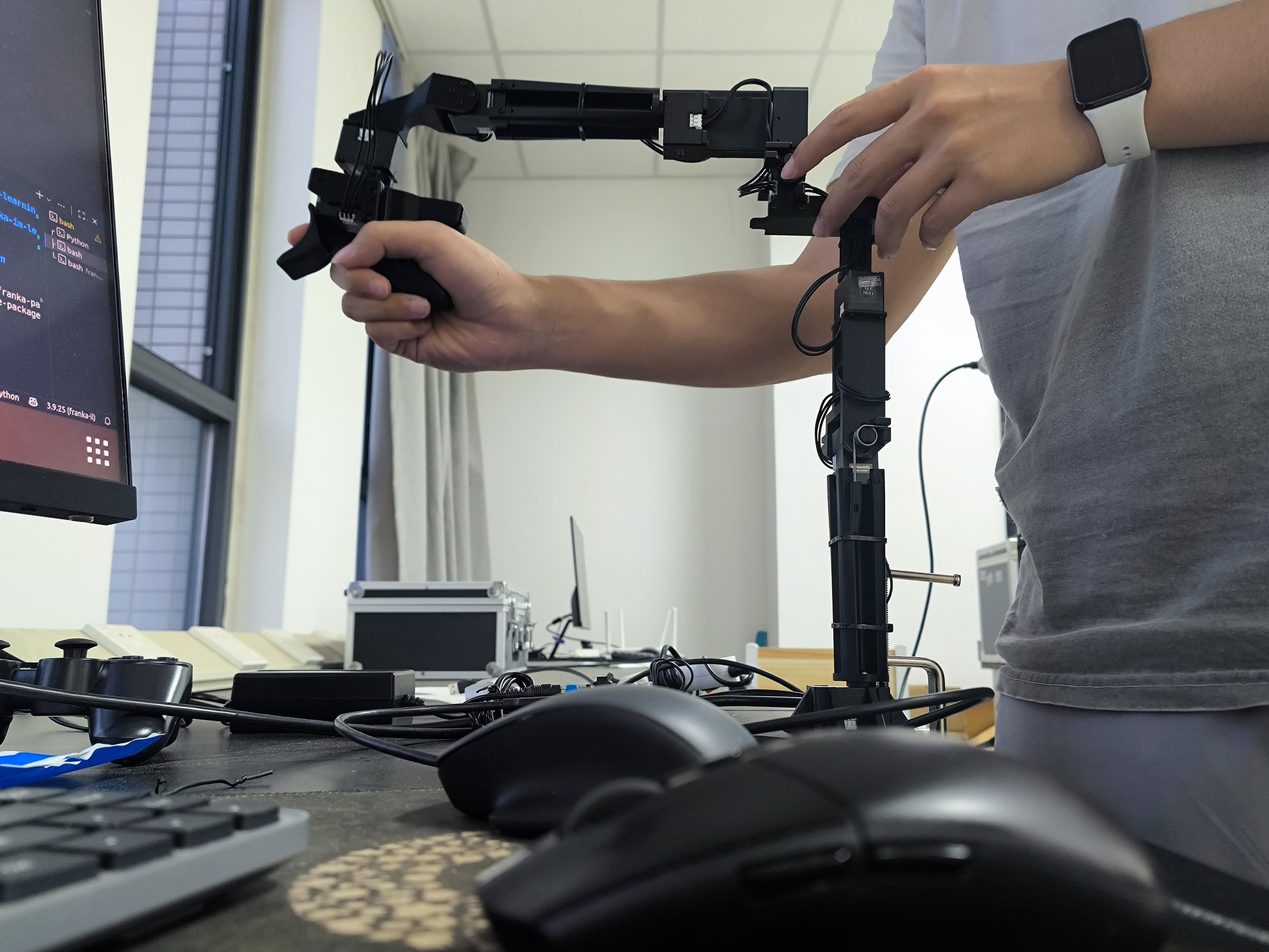
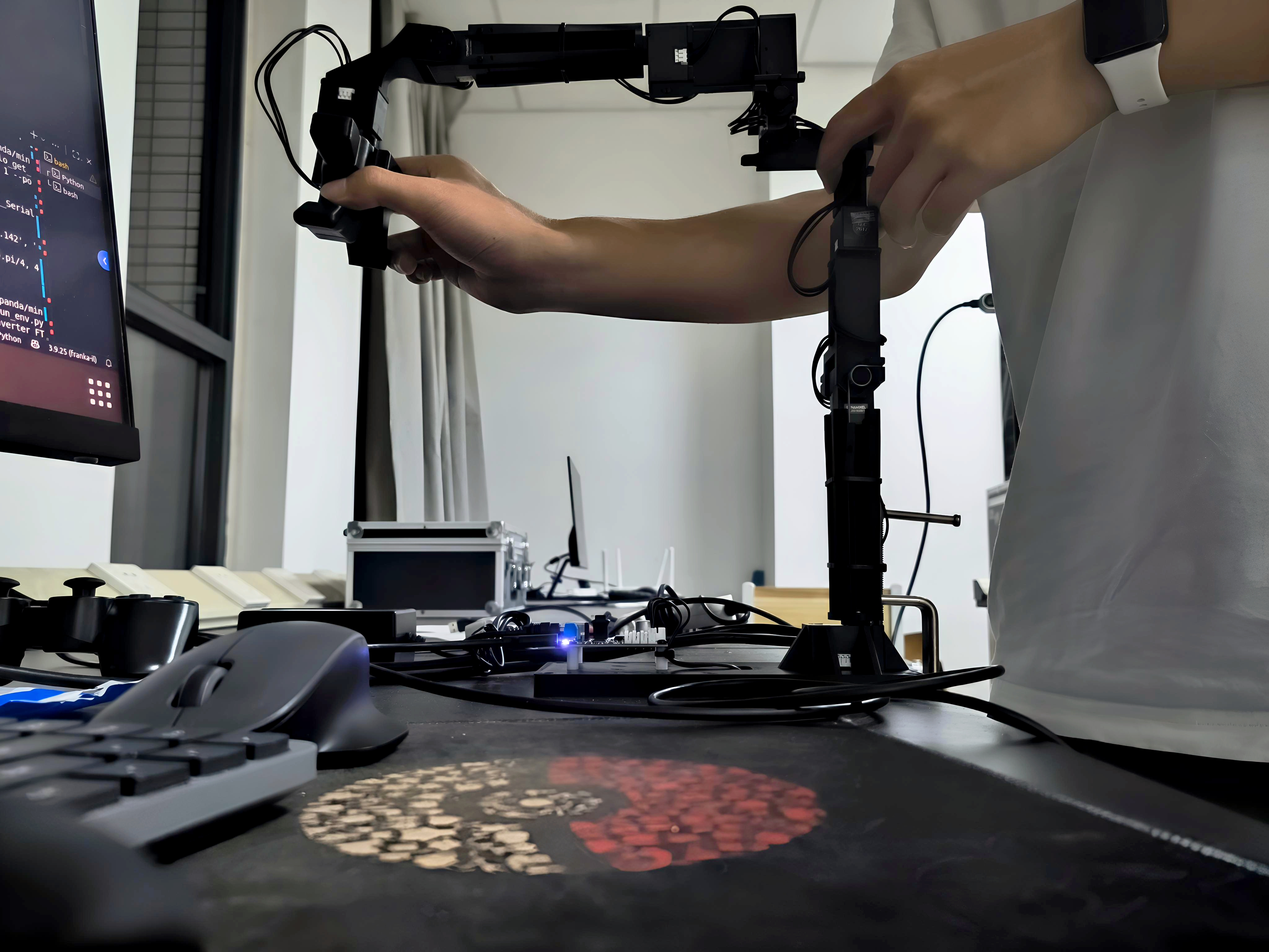
20260621修改

diff --git a/projects.html b/projects.html
@@ -34,35 +34,37 @@
             <h2 id="featured-projects">精选项目</h2>
           </div>
           <div class="item-list">
-            <a class="item item-link" href="https://www.bilibili.com/video/BV1cZVu6aExs/?spm_id_from=333.1387.homepage.video_card.click&vd_source=9805319fbcc667bd39b66994068b0d17" target="_blank" rel="noreferrer">
+
+            <article class="item project-card">
               <h3 class="title-line">
                 <span class="title-main">第十九届“挑战杯”全国大学生课外学术科技作品竞赛2025年度中国青年科技创新“揭榜挂帅”擂台赛 · <span class="title-meta">全国特等奖 · 第一负责人</span></span>
                 <span class="title-date">2025.07 - 2025.10</span>
               </h3>
+              <div class="item-actions" aria-label="项目相关链接">
+                <a class="item-action-link" href="https://www.bilibili.com/video/BV1cZVu6aExs/?spm_id_from=333.1387.homepage.video_card.click&amp;vd_source=9805319fbcc667bd39b66994068b0d17" target="_blank" rel="noopener noreferrer">项目视频</a>
+                <a class="item-action-link" href="https://github.com/Wen-Zeling/guard" target="_blank" rel="noopener noreferrer">代码</a>
+              </div>
               <p>
                 研发基于 DAG 状态空间与 ILP/MILP 的协同优化框架，实现电量约束下的在线搜索路径解算；设计融合高斯分布、线性插值的综合评分模型决策机制，实现多目标自适应协同分配与防撞安全锁定；开发集成 APF 与运动学约束的 PID 双闭环控制器，实现高效区域封控
               </p>
-              <!-- <div class="tag-row">
-                <span class="tag">ILP/MILP</span>
-                <span class="tag">Multi-Agent Planning</span>
-                <span class="tag">PID Control</span>
-              </div> -->
-            </a>
+            </article>
 
-            <a class="item item-link" href="https://www.bilibili.com/video/BV1ep421R7LV/?spm_id_from=333.1387.homepage.video_card.click&amp;vd_source=9805319fbcc667bd39b66994068b0d17" target="_blank" rel="noreferrer">
+            <article class="item project-card">
               <h3 class="title-line">
                 <span class="title-main">第十八届全国大学生智能汽车竞赛——完全模型组 · <span class="title-meta">全国一等奖 · 第二负责人</span></span>
                 <span class="title-date">2022.12 - 2023.08</span>
               </h3>
+              <div class="item-actions" aria-label="项目相关链接">
+                <a class="item-action-link" href="https://www.bilibili.com/video/BV1ep421R7LV/?spm_id_from=333.1387.homepage.video_card.click&amp;vd_source=9805319fbcc667bd39b66994068b0d17" target="_blank" rel="noopener noreferrer">国赛决赛第一视角视频</a>
+                <a class="item-action-link" href="https://www.bilibili.com/video/BV1LF411y7X6/?vd_source=9805319fbcc667bd39b66994068b0d17" target="_blank" rel="noopener noreferrer">实验室全元素视频</a>
+                <a class="item-action-link" href="https://www.bilibili.com/video/BV1c14y1R7UY/?vd_source=9805319fbcc667bd39b66994068b0d17" target="_blank" rel="noopener noreferrer">西部赛区决赛视频</a>
+                <a class="item-action-link" href="https://github.com/Wen-Zeling/The-18th-Smart-Car-Competition-complete-model-group" target="_blank" rel="noopener noreferrer">代码</a>
+              </div>
               <p>
                 基于百度 EdgeBoard 开发板与 Ubuntu 系统集成赛道视觉模块，编写状态机完成实时行车策略与速度决策；设计自定义数据帧协议，通过 USB 串口打通 Ubuntu 决策层与英飞凌 MCU；基于 C 语言开发底层驱动，并使用 PID 与卡尔曼滤波进行闭环调优
               </p>
-              <!-- <div class="tag-row">
-                <span class="tag">Computer Vision</span>
-                <span class="tag">Embedded Systems</span>
-                <span class="tag">Control</span>
-              </div> -->
-            </a>
+            </article>
+
           </div>
         </section>
 
@@ -72,11 +74,15 @@
           </div>
           <div class="item-list">
 
-            <a class="item item-link" href="https://www.bilibili.com/video/BV1cZVu6aExs/?spm_id_from=333.1387.homepage.video_card.click&vd_source=9805319fbcc667bd39b66994068b0d17" target="_blank" rel="noreferrer">
+            <article class="item project-card">
               <h3 class="title-line">
                 <span class="title-main">第十九届“挑战杯”全国大学生课外学术科技作品竞赛2025年度中国青年科技创新“揭榜挂帅”擂台赛 · <span class="title-meta">全国特等奖 · 第一负责人</span></span>
                 <span class="title-date">2025.07 - 2025.10</span>
               </h3>
+              <div class="item-actions" aria-label="项目相关链接">
+                <a class="item-action-link" href="https://www.bilibili.com/video/BV1cZVu6aExs/?spm_id_from=333.1387.homepage.video_card.click&amp;vd_source=9805319fbcc667bd39b66994068b0d17" target="_blank" rel="noopener noreferrer">项目视频</a>
+                <a class="item-action-link" href="https://github.com/Wen-Zeling/guard" target="_blank" rel="noopener noreferrer">代码</a>
+              </div>
               <p>
                 研发基于 DAG 状态空间与 ILP/MILP 的协同优化框架，实现电量约束下的在线搜索路径解算；设计融合高斯分布、线性插值的综合评分模型决策机制，实现多目标自适应协同分配与防撞安全锁定；开发集成 APF 与运动学约束的 PID 双闭环控制器，实现高效区域封控
               </p>
@@ -85,13 +91,19 @@
                 <span class="tag">Multi-Agent Planning</span>
                 <span class="tag">PID Control</span>
               </div> -->
-            </a>
+            </article>
 
-            <a class="item item-link" href="https://www.bilibili.com/video/BV1ep421R7LV/?spm_id_from=333.1387.homepage.video_card.click&amp;vd_source=9805319fbcc667bd39b66994068b0d17" target="_blank" rel="noreferrer">
+            <article class="item project-card">
               <h3 class="title-line">
                 <span class="title-main">第十八届全国大学生智能汽车竞赛——完全模型组 · <span class="title-meta">全国一等奖 · 第二负责人</span></span>
                 <span class="title-date">2022.12 - 2023.08</span>
               </h3>
+              <div class="item-actions" aria-label="项目相关链接">
+                <a class="item-action-link" href="https://www.bilibili.com/video/BV1ep421R7LV/?spm_id_from=333.1387.homepage.video_card.click&amp;vd_source=9805319fbcc667bd39b66994068b0d17" target="_blank" rel="noopener noreferrer">国赛决赛第一视角视频</a>
+                <a class="item-action-link" href="https://www.bilibili.com/video/BV1LF411y7X6/?vd_source=9805319fbcc667bd39b66994068b0d17" target="_blank" rel="noopener noreferrer">实验室全元素视频</a>
+                <a class="item-action-link" href="https://www.bilibili.com/video/BV1c14y1R7UY/?vd_source=9805319fbcc667bd39b66994068b0d17" target="_blank" rel="noopener noreferrer">西部赛区决赛视频</a>
+                <a class="item-action-link" href="https://github.com/Wen-Zeling/The-18th-Smart-Car-Competition-complete-model-group" target="_blank" rel="noopener noreferrer">代码</a>
+              </div>
               <p>
                 基于百度 EdgeBoard 开发板与 Ubuntu 系统集成赛道视觉模块，编写状态机完成实时行车策略与速度决策；设计自定义数据帧协议，通过 USB 串口打通 Ubuntu 决策层与英飞凌 MCU；基于 C 语言开发底层驱动，并使用 PID 与卡尔曼滤波进行闭环调优
               </p>
@@ -100,7 +112,7 @@
                 <span class="tag">Embedded Systems</span>
                 <span class="tag">Control</span>
               </div> -->
-            </a>
+            </article>
 
             <a class="item item-link" href="#honors">
               <h3 class="title-line">

diff --git a/blogs/franka-gello-note.html b/blogs/franka-gello-note.html
@@ -401,21 +401,21 @@ while True:
             np.pi,
             np.pi,
             np.pi,
-            np.pi,
+            5*np.pi/4,
         ),
         joint_signs=(1, 1, 1, 1, 1, -1, 1),
         gripper_config=(8, 200.981640625, 159.181640625),
     ),</code></pre>
           </div>
           <p>
-            其次，添加的具体 <code>joint_offsets</code> 数据需要在初始构型下进行标定：
+            其次，添加的具体 <code>joint_offsets</code> 数据需要在初始构型下进行标定（我将 <code>gello_software/scripts/gello_get_offset.py</code> 的中 <code>-8 * np.pi, 8 * np.pi, 8 * 4 + 1</code> 改为了 <code>-8 * np.pi, 8 * np.pi, 8 * 8 + 1</code>）：
           </p>
           <div class="code-card">
             <div class="code-card-header">
               <span class="code-lang">bash</span>
               <span class="copy-hint">标定脚本</span>
             </div>
-            <pre><code>/home/franka-panda/miniconda3/envs/franka-il/bin/python /home/franka-panda/wzl/franka-im-learning/gello_get_offset.py --start-joints 0 0 0 -1.57 0 1.57 0   --joint-signs 1 1 1 1 1 -1 1 --port /dev/serial/by-id/usb-FTDI_USB__-__Serial_Converter_FTC2NJ4R-if00-port0</code></pre>
+            <pre><code>/home/franka-panda/miniconda3/envs/franka-il/bin/python /home/franka-panda/wzl/franka-im-learning/gello_get_offset.py --start-joints 0 0 0 -1.57 0 1.57 0.7853   --joint-signs 1 1 1 1 1 -1 1 --port /dev/serial/by-id/usb-FTDI_USB__-__Serial_Converter_FTC2NJ4R-if00-port0</code></pre>
           </div>
           <p>
             将输出的数据填入 <code># franka-panda</code> 的配置中。
@@ -428,10 +428,10 @@ while True:
             <pre><code>Attempting to initialize Dynamixel driver (attempt 1/3)
 Successfully initialized Dynamixel driver on /dev/serial/by-id/usb-FTDI_USB__-__Serial_Converter_FTC2NJ4R-if00-port0
 
-best offsets               :  ['0.000', '3.142', '3.142', '3.142', '3.142', '3.142', '3.142']
-best offsets function of pi: [0*np.pi/2, 2*np.pi/2, 2*np.pi/2, 2*np.pi/2, 2*np.pi/2, 2*np.pi/2, 2*np.pi/2 ]
-gripper open (degrees)        201.333203125
-gripper close (degrees)       159.533203125</code></pre>
+best offsets               :  ['0.000', '3.142', '3.142', '3.142', '3.142', '3.142', '3.927']
+best offsets function of pi: [0*np.pi/4, 4*np.pi/4, 4*np.pi/4, 4*np.pi/4, 4*np.pi/4, 4*np.pi/4, 5*np.pi/4 ]
+gripper open (degrees)        200.278515625
+gripper close (degrees)       158.478515625</code></pre>
           </div>
           <p>
             下图是我标定的初始构型，应该是这样吧...！
@@ -444,6 +444,28 @@ gripper close (degrees)       159.533203125</code></pre>
               decoding="async">
             <figcaption>图1 GELLO 遥操作臂标定时的初始构型</figcaption>
           </figure>
+
+          <p>
+            另外，MuJoCo 中 Franka Panda 夹爪的控制量与 GELLO 输出的夹爪量纲并不一致。GELLO 读取到的夹爪值是归一化后的 <code>[0, 1]</code> 区间，而 <code>mujoco_menagerie</code> 中 Panda 夹爪执行器的控制范围为 <code>[0, 255]</code>。因此，如果直接将 GELLO 输出发送给 MuJoCo，会导致夹爪实际运动幅度非常小，仅从约 <code>5e-7</code> 变化到 <code>1e-4</code>，视觉上几乎始终处于闭合状态。为解决该问题，需要在 <code>gello/robots/sim_robot.py</code> 的 <code>command_joint_state</code> 函数进行修改（其本质原因是 <code>launch_nodes.py</code> 中的 <code>gripper_xml = None</code> 设置为空导致的，我目前的修改方案可能导致其他机械臂模型不能用或者报错，需要自己斟酌修正）；同时，根据实际观察修正夹爪开合方向（如我改成了 <code>(1.0 - _joint_state[-1])</code>）。当前设置下，GELLO 夹爪捏住对应 MuJoCo 闭合，GELLO 夹爪松开对应 MuJoCo 打开，因此采用如下映射：
+          </p>
+          <div class="code-card">
+            <div class="code-card-header">
+              <span class="code-lang">python</span>
+              <span class="copy-hint">夹爪控制映射修改</span>
+            </div>
+            <pre><code>def command_joint_state(self, joint_state: np.ndarray) -&gt; None:
+    assert len(joint_state) == self._num_joints, (
+        f"Expected joint state of length {self._num_joints}, "
+        f"got {len(joint_state)}."
+    )
+    if len(joint_state) == 8:
+        _joint_state = joint_state.copy()
+        _joint_state[-1] = (1.0 - _joint_state[-1]) * 255
+        self._joint_cmd = _joint_state
+    else:
+        self._joint_cmd = joint_state.copy()</code></pre>
+          </div>
+
 
 
 

diff --git a/assets/css/styles.css b/assets/css/styles.css
@@ -391,6 +391,46 @@ ul {
   color: var(--color-accent);
 }
 
+.project-card h3 {
+  color: var(--color-accent);
+}
+
+.item-actions {
+  display: flex;
+  flex-wrap: wrap;
+  gap: 0.55rem;
+  margin: 0.65rem 0 0.9rem;
+}
+
+.item-action-link {
+  display: inline-flex;
+  align-items: center;
+  border: 1px solid rgba(39, 95, 143, 0.28);
+  border-radius: 999px;
+  background: rgba(39, 95, 143, 0.06);
+  color: var(--color-accent);
+  padding: 0.28rem 0.7rem;
+  font-size: 0.88rem;
+  font-weight: 700;
+  line-height: 1.4;
+  text-decoration: none;
+  transition:
+    border-color 180ms ease,
+    background-color 180ms ease,
+    color 180ms ease;
+}
+
+.item-action-link:hover {
+  border-color: var(--color-accent);
+  background: rgba(39, 95, 143, 0.12);
+  color: var(--color-accent-dark);
+}
+
+.item-action-link:focus-visible {
+  outline: 3px solid rgba(39, 95, 143, 0.24);
+  outline-offset: 2px;
+}
+
 .item h3 {
   margin-bottom: 0.35rem;
   font-size: 1.1rem;

diff --git a/assets/css/post.css b/assets/css/post.css
@@ -39,6 +39,9 @@
 
 .post-body p {
   color: var(--color-muted);
+  text-align: justify;
+  text-align-last: left;
+  text-justify: inter-character;
 }
 
 .post-body :not(pre) > code {
